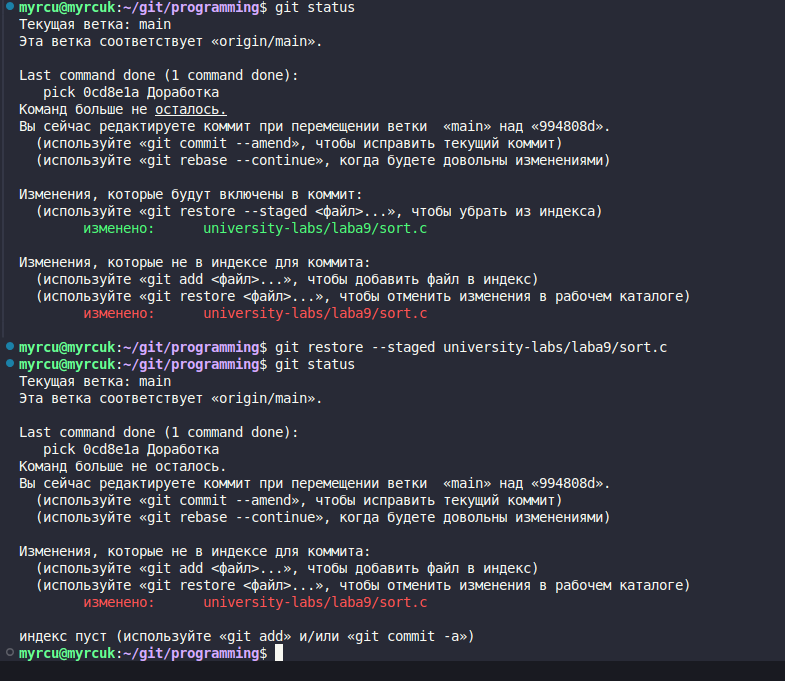
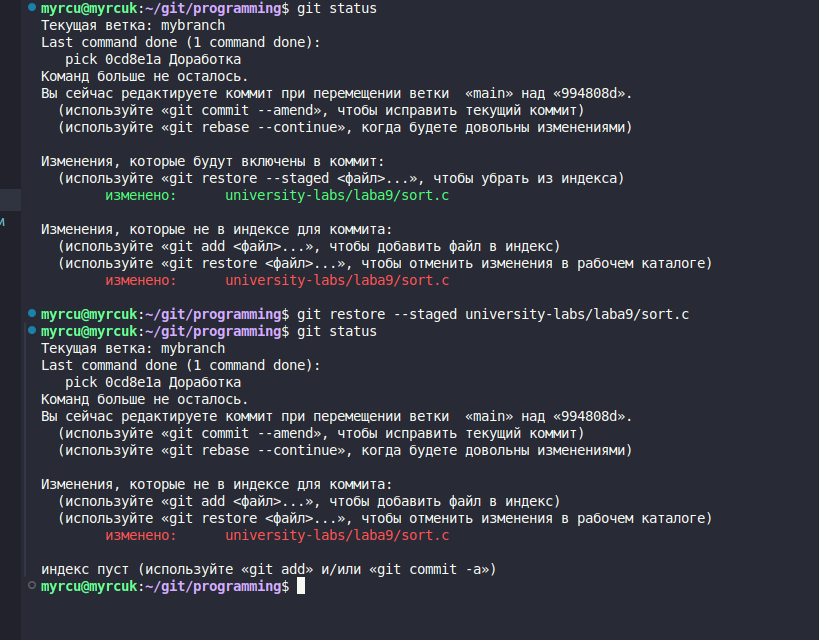
1

Changed region(s): [[0.0, 0.0, 0.8866, 0.9688]]

diff --git a/university-labs/laba9/README.md b/university-labs/laba9/README.md
@@ -63,3 +63,11 @@
 ![alt text](images/image13.png)
 - git diff указывает на отличия между проиндексированным и непроиндексированными файлами
 - после добавления в stage команда git diff --stage также показывает нам различия
+
+## 12-14
+![alt text](images/image14.png)
+- сначала в git status мы видим проиндексированные изменения и непроиндексированые, но после отмены индексации мы видим только непроиндексированные
+
+## 15-16
+![alt text](images/image15.png)
+- появился только что сделанный нами коммит
